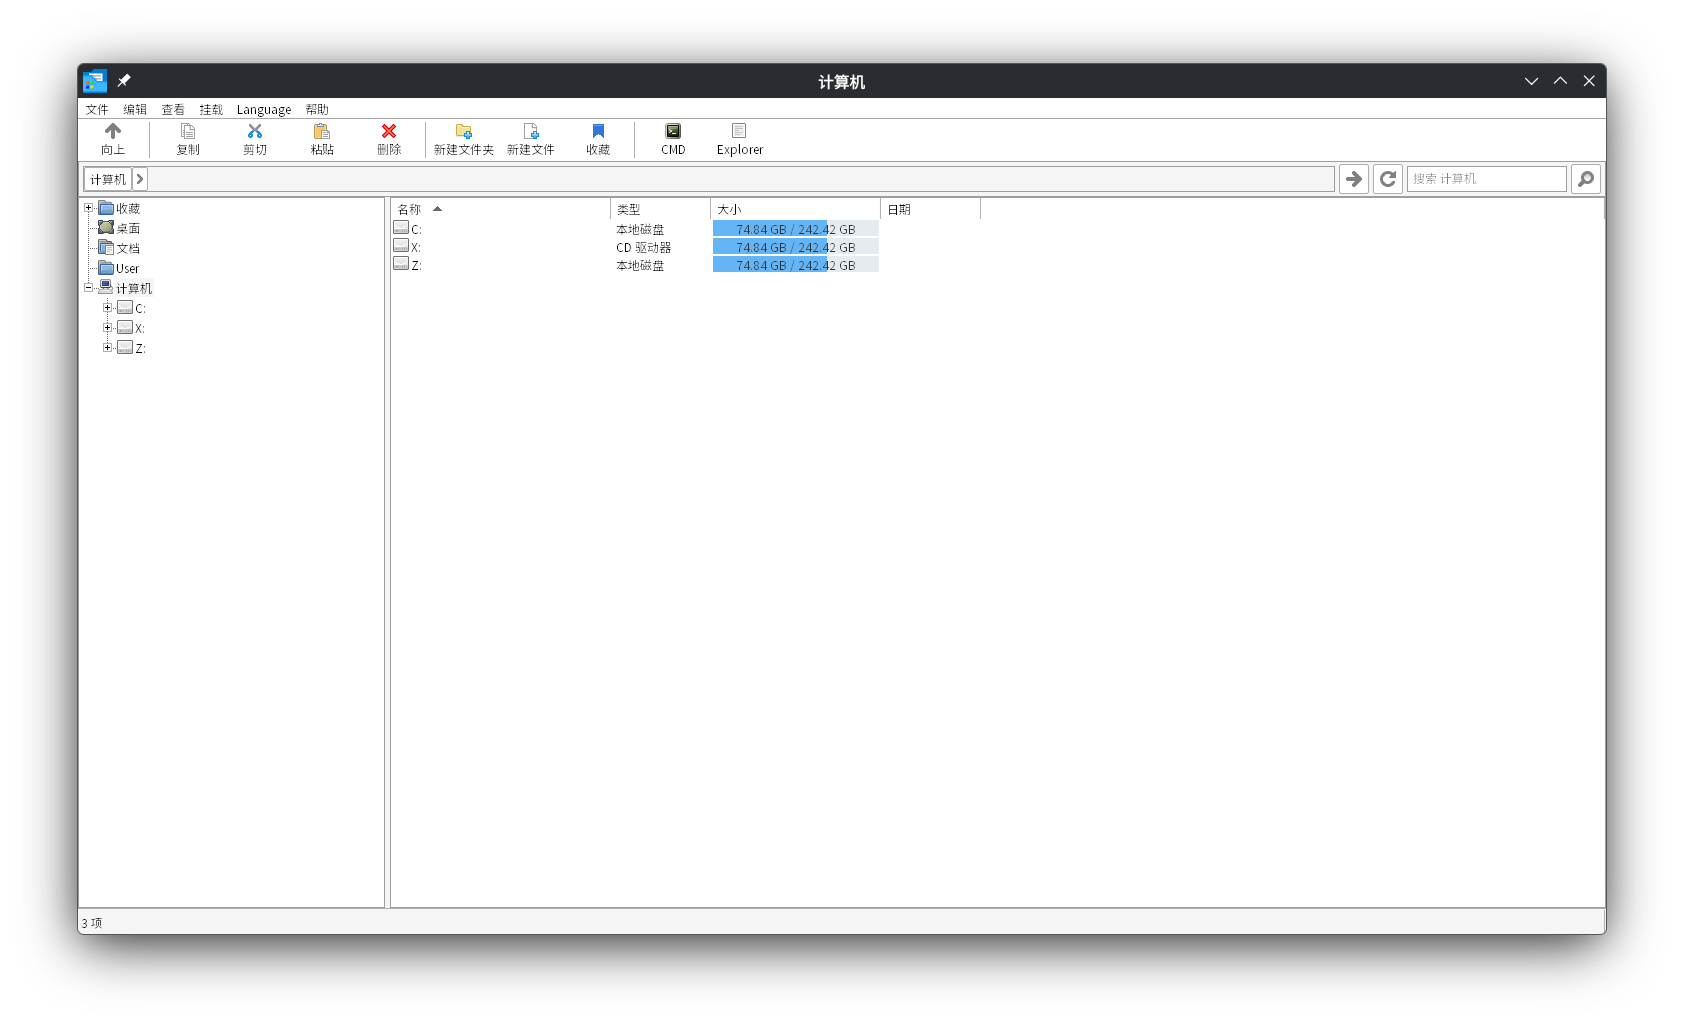
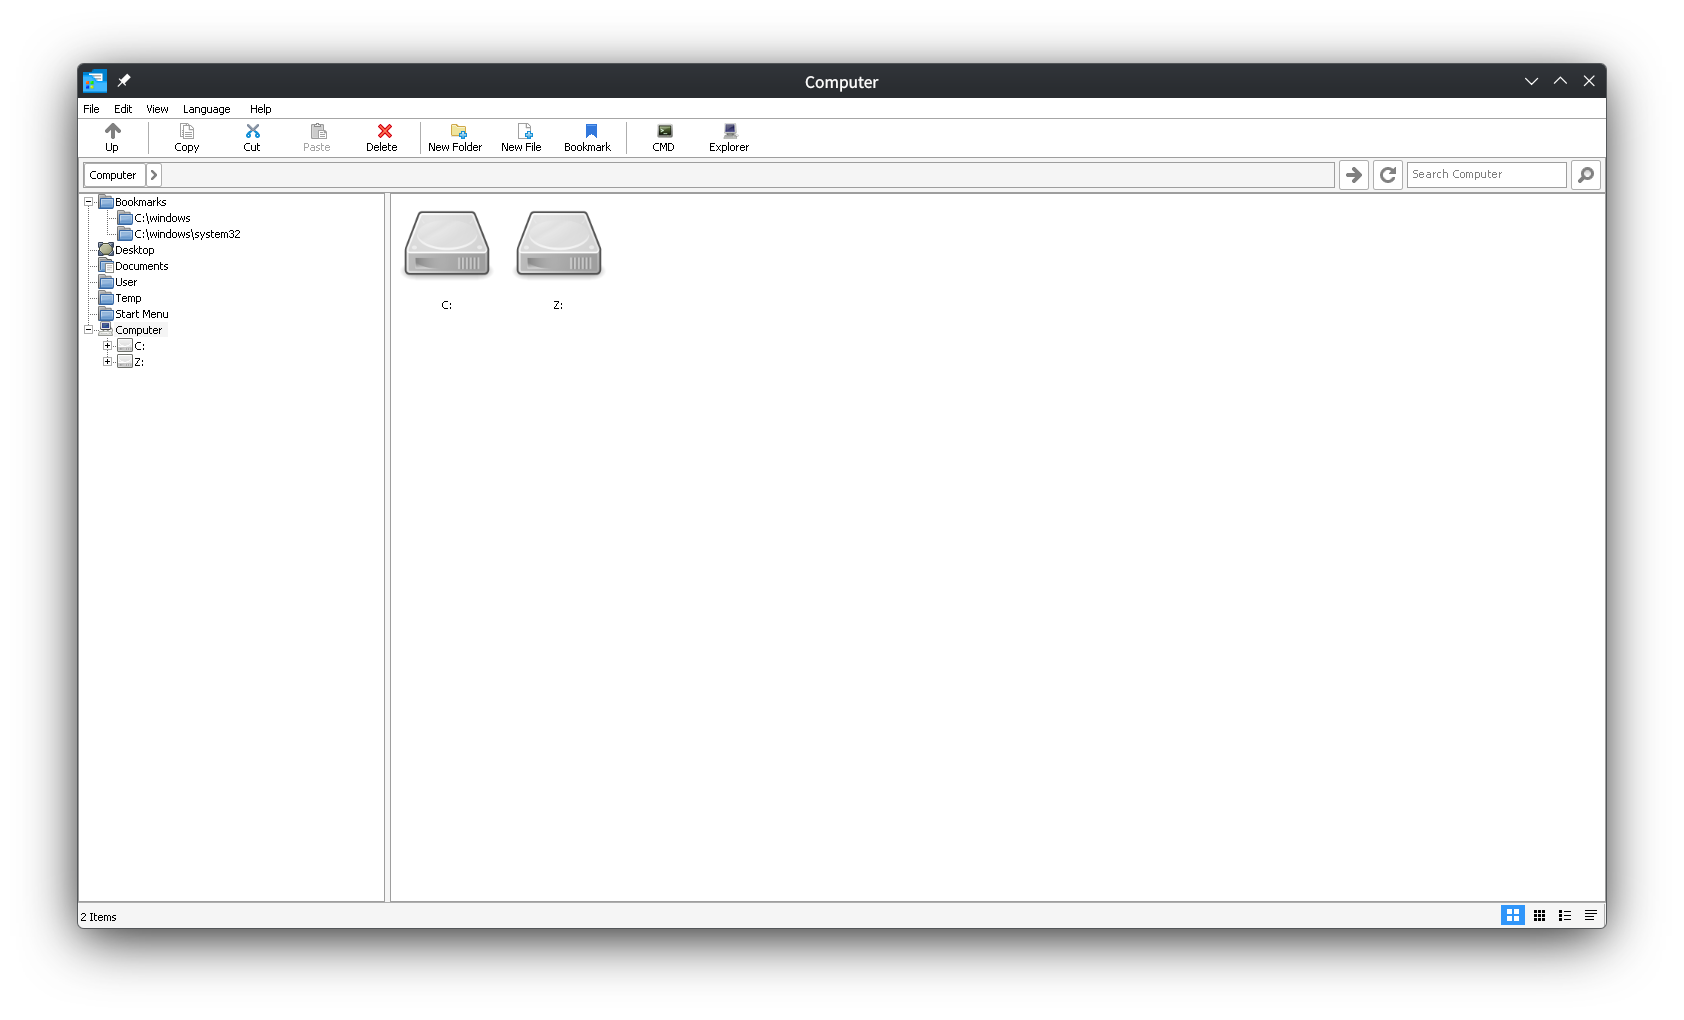
update readme & img

diff --git a/README.md b/README.md
@@ -15,6 +15,8 @@
 
 ![Screenshot](wfm4.png)
 
+![Screenshot](wfm5.png)
+
 # 注册表结构
 
 所有配置都在 `HKEY_CURRENT_USER\Software\Winlator\WFM` 下，不写 HKLM，不需要管理员权限。
@@ -150,6 +152,7 @@ Windows Registry Editor Version 5.00
 20. 跨窗口文件复制
 21. 可以显示lnk文件图标了
 22. 文件夹可以显示日期和项目数量了
+23. 加入了简单的内置图片查看器
 
 相较于原版wfm
 
